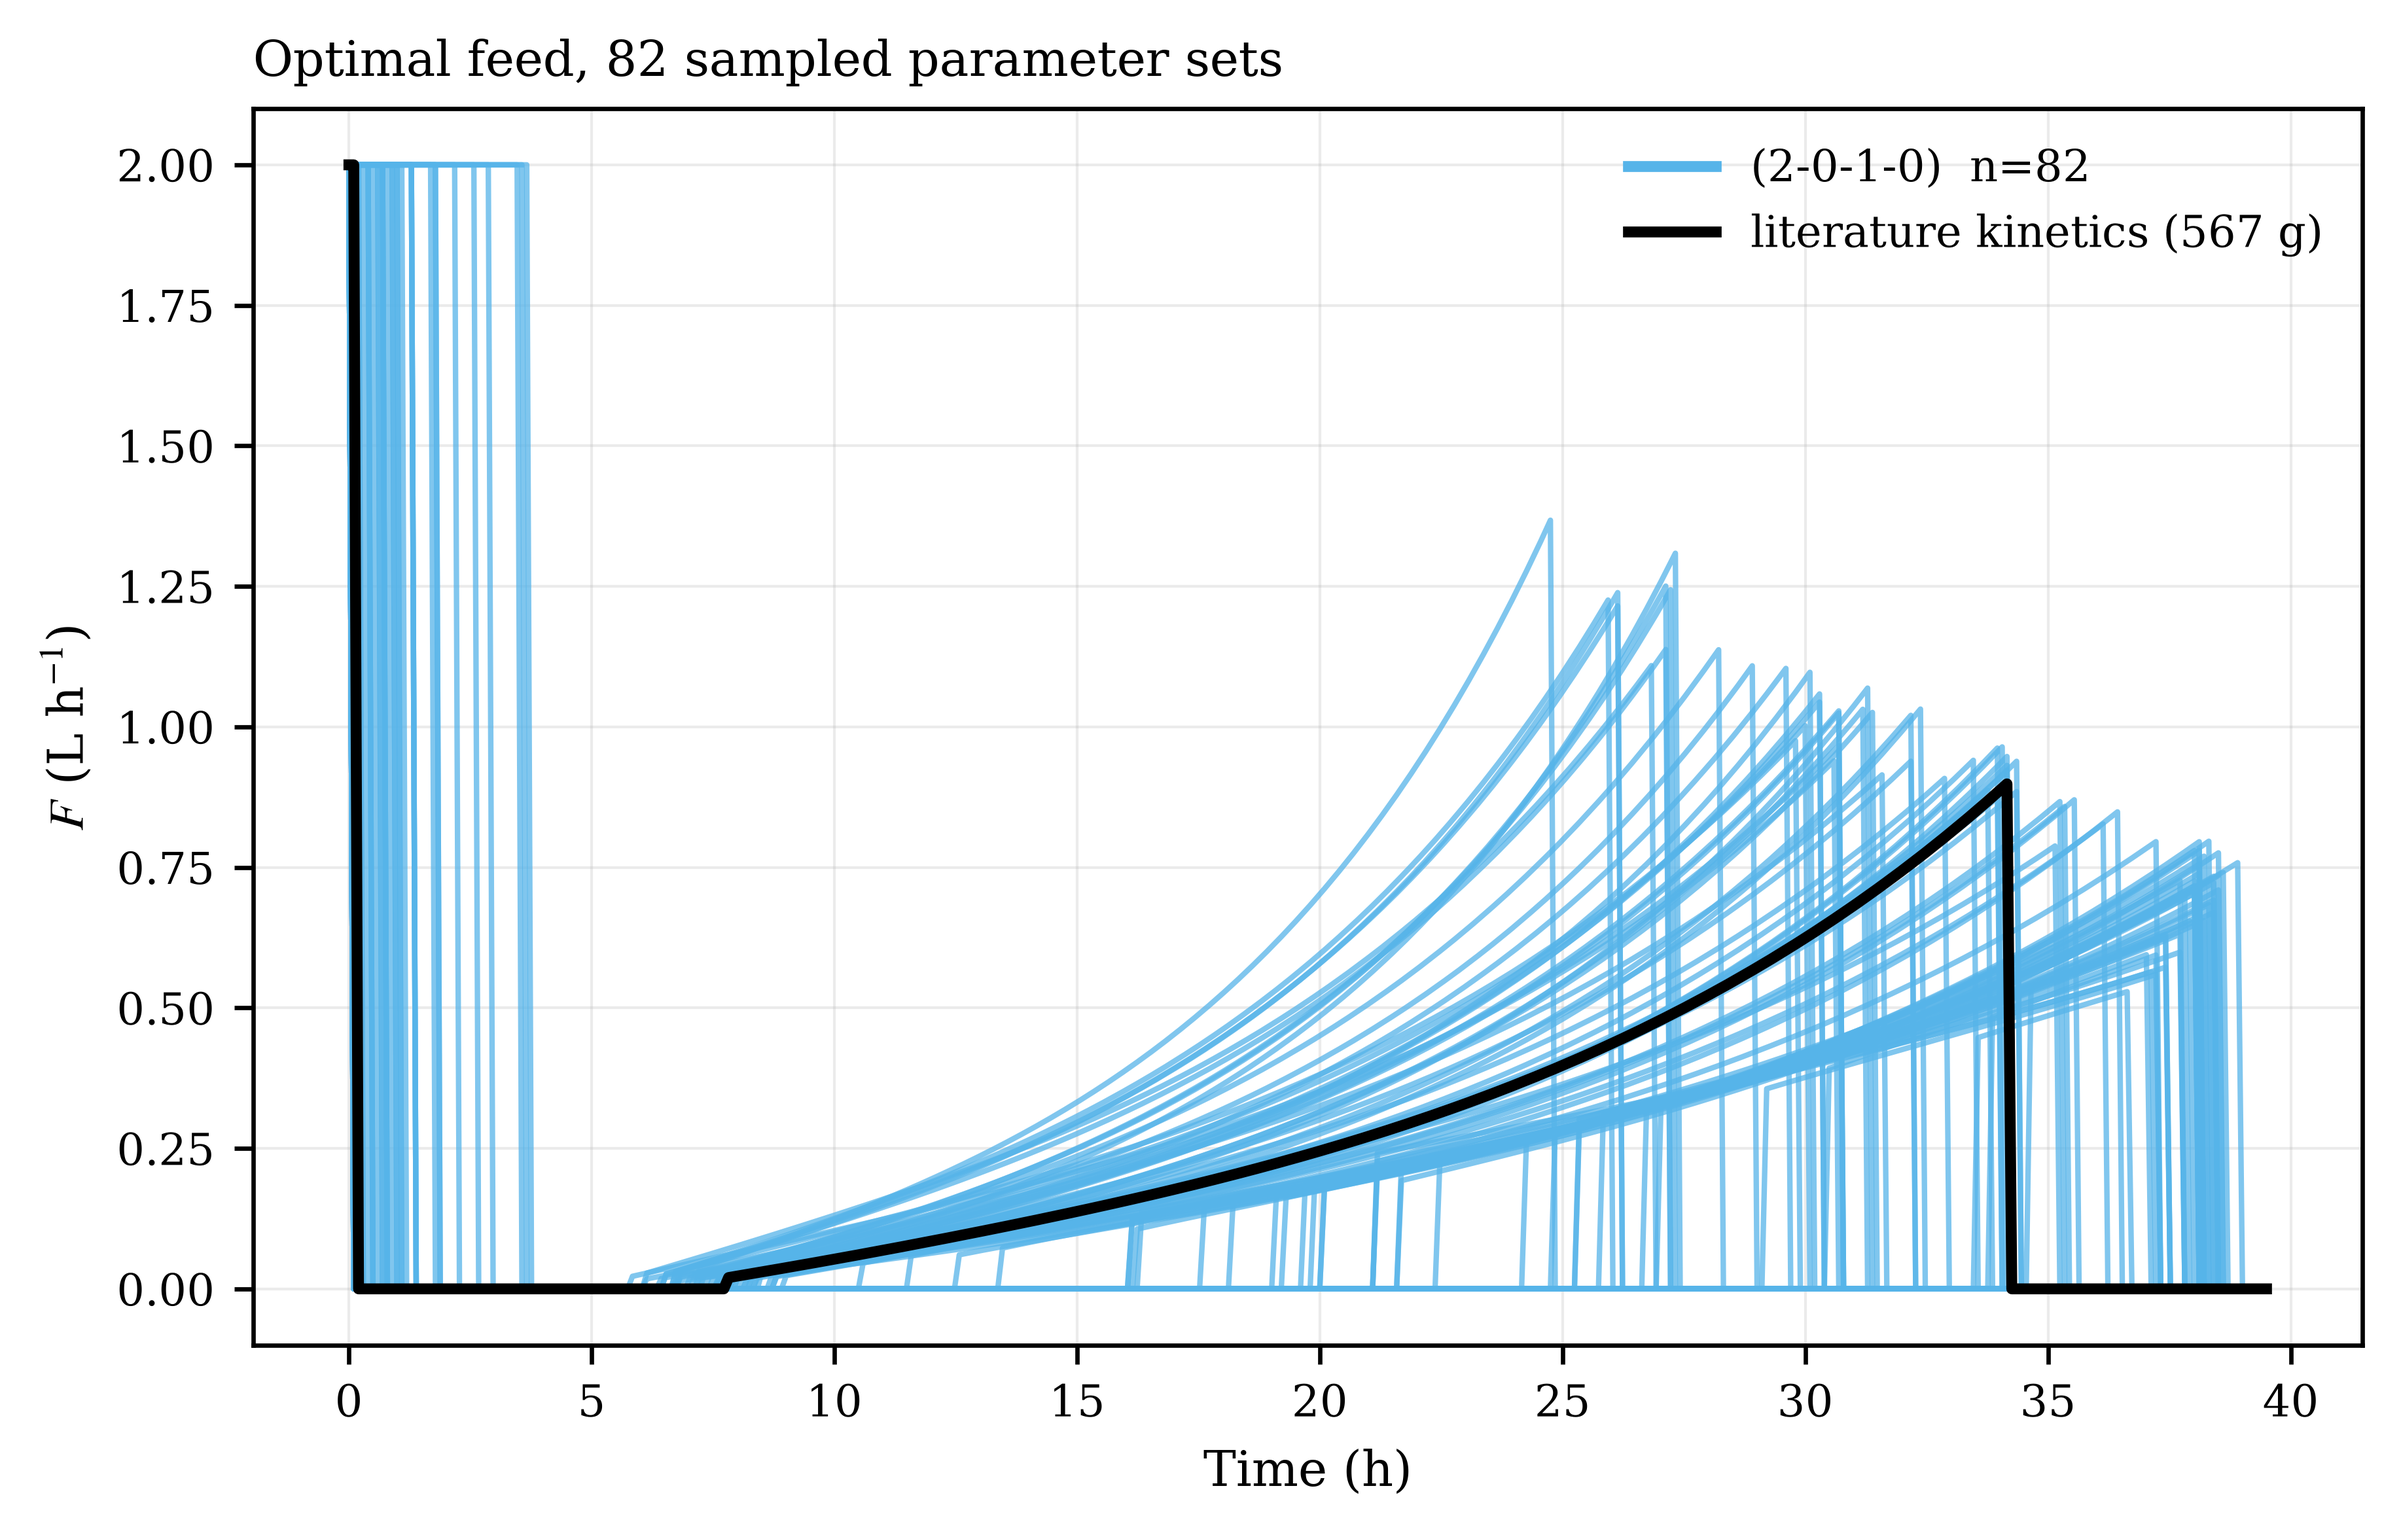
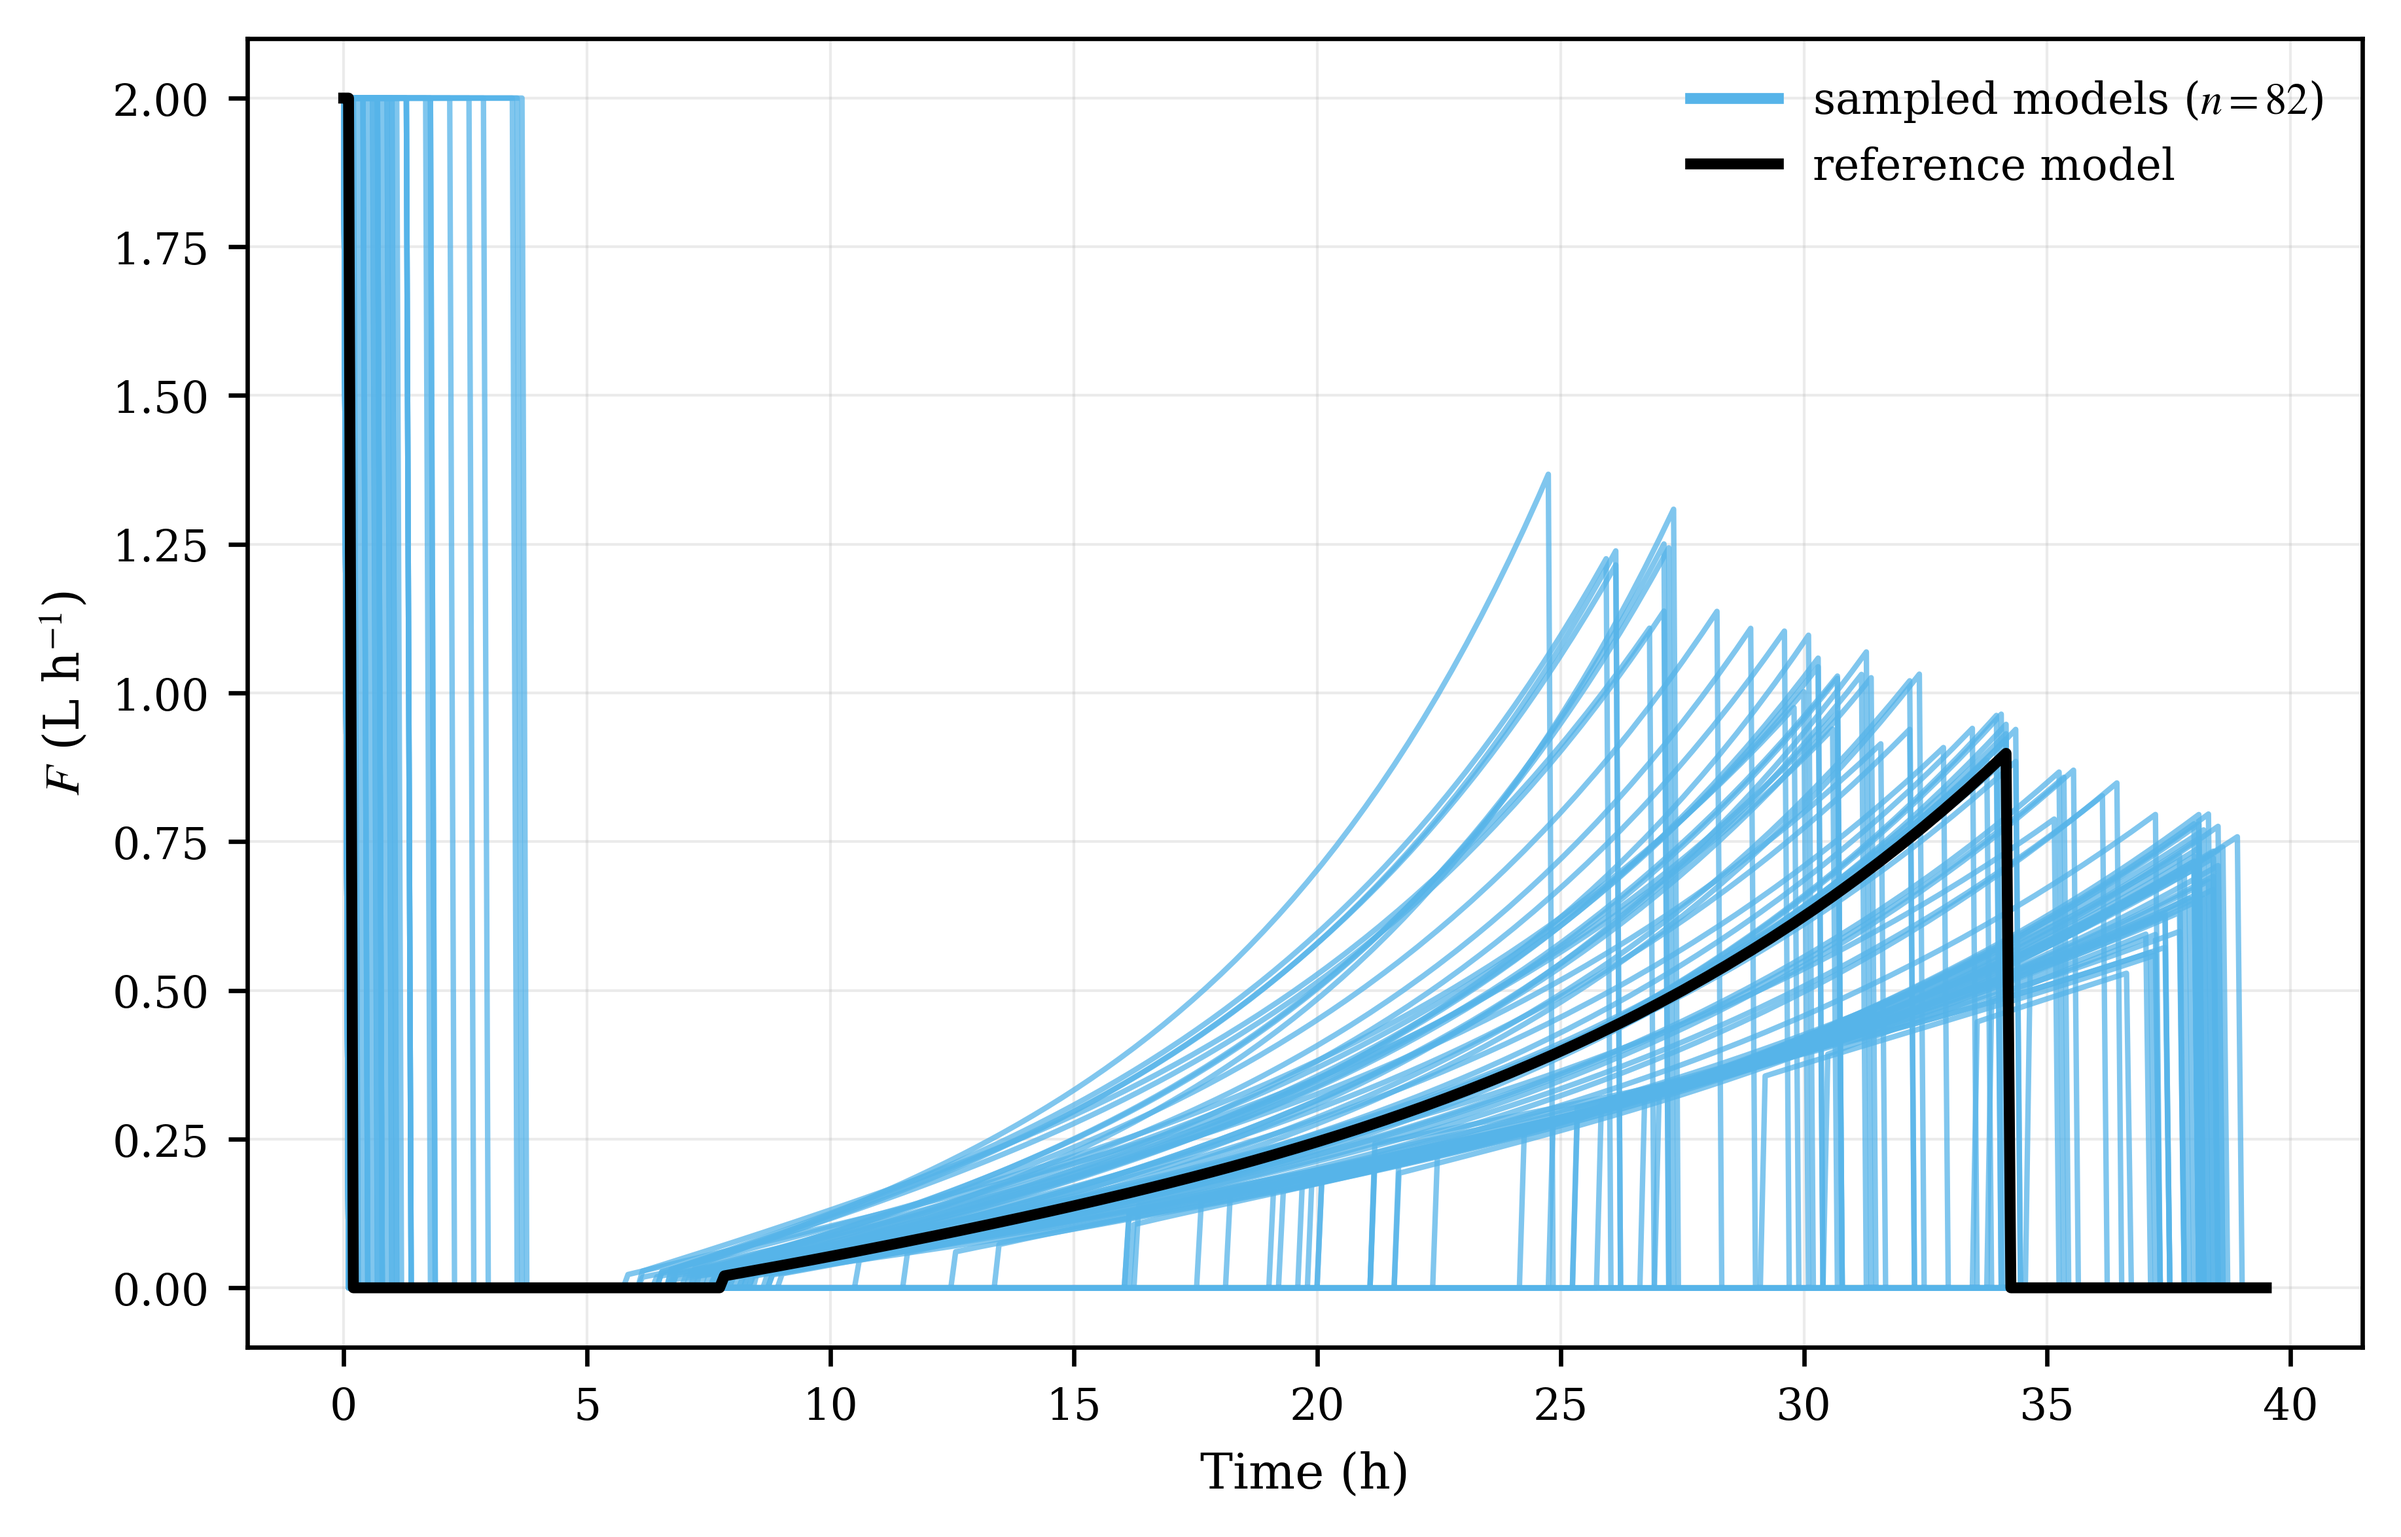
update plot

Changed region(s): [[0.0, 0.0, 0.9321, 0.8702], [0.1243, 0.8702, 0.9632, 0.9634], [0.6836, 0.0622, 0.9632, 0.1554]]

diff --git a/scripts/substrate_and_product_inhibition/mc_sampling/feed_ensemble.py b/scripts/substrate_and_product_inhibition/mc_sampling/feed_ensemble.py
@@ -582,19 +582,22 @@ def plot(path=FEEDS_NPZ, figure=FIGURE, nominal=True):
     fig, ax = plt.subplots(figsize=(6.0, 3.8), constrained_layout=True)
     for f, s_ in zip(F, structure):
         ax.plot(t, f, color=colour[s_], lw=1.0, alpha=0.75)
-    handles = [plt.Line2D([], [], color=colour[s_], lw=2,
-                          label=f"({s_})  n={int((structure == s_).sum())}")
-               for s_ in fams]
+    # one entry for the ensemble (every converged draw shares one structure, which
+    # the caption states) plus the reference (literature-kinetics) feed
+    handles = [plt.Line2D([], [], color=colour[fams[0]], lw=2,
+                          label=f"sampled models ($n = {len(F)}$)")]
     if nominal:
         t_n, F_n, pv_n, _ = nominal_feed()
         if F_n is not None:
             ax.plot(t_n, F_n, color="black", lw=2.0, zorder=5)
             handles.append(plt.Line2D([], [], color="black", lw=2.0,
-                                      label=f"literature kinetics ({pv_n:.0f} g)"))
+                                      label="reference model"))
     ax.set_xlabel("Time (h)")
     ax.set_ylabel(r"$F$ (L h$^{-1}$)")
-    ax.set_title(f"Optimal feed, {len(F)} sampled parameter sets", loc="left")
-    ax.legend(handles=handles, loc="upper right")
+    if handles:
+        ax.legend(handles=handles, loc="upper right")
+    print(f"plotted {len(F)} draws; structures: "
+          + ", ".join(f"{s_} (n={int((structure == s_).sum())})" for s_ in fams))
     fig.savefig(figure, dpi=600, bbox_inches="tight")
     print(f"saved {figure}")
 
